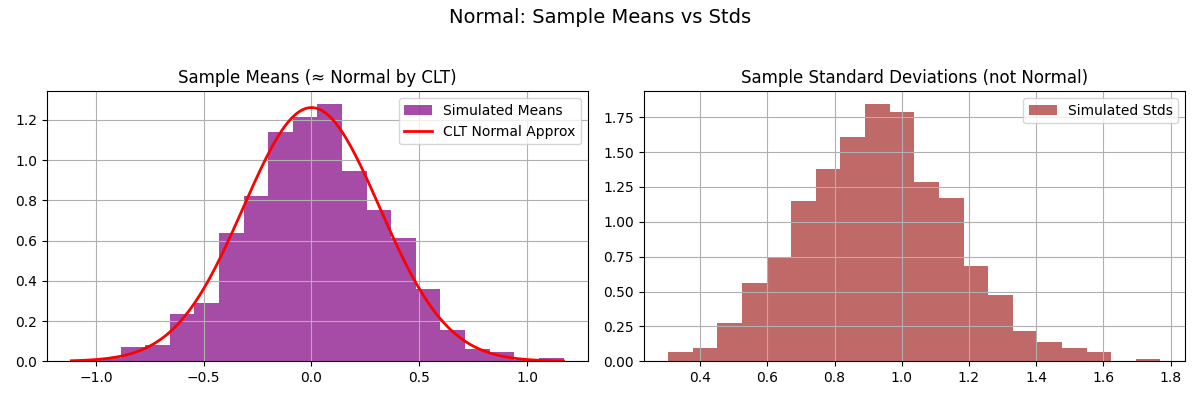
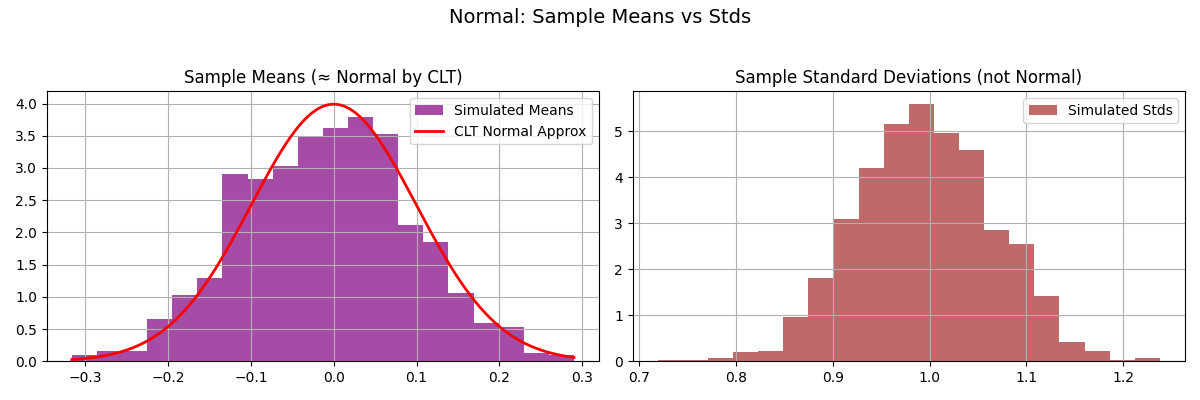
updated m value

diff --git a/assm6_q1_student.py b/assm6_q1_student.py
@@ -120,7 +120,7 @@ def task4_variance_scaling(N=1000, m_list=[1,2,10,100]):
 # ================================
 # Task 5: Mean vs. standard deviation
 # ================================
-def task5_mean_std(N=1000, m=10):
+def task5_mean_std(N=1000, m=100):
     for name, dist in dists.items():
         # draw N samples, each of size m
         data = dist.rvs(size=(N,m))
